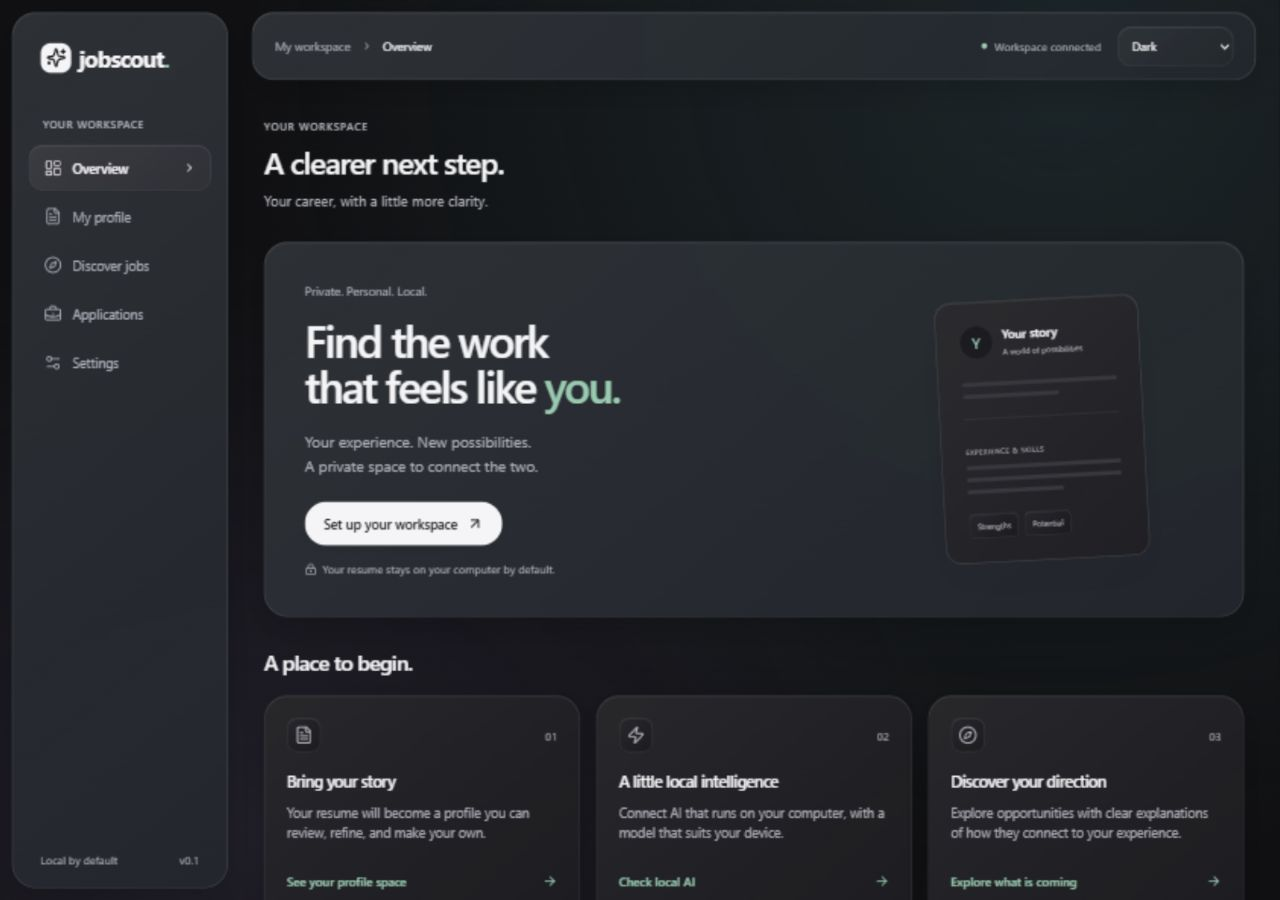
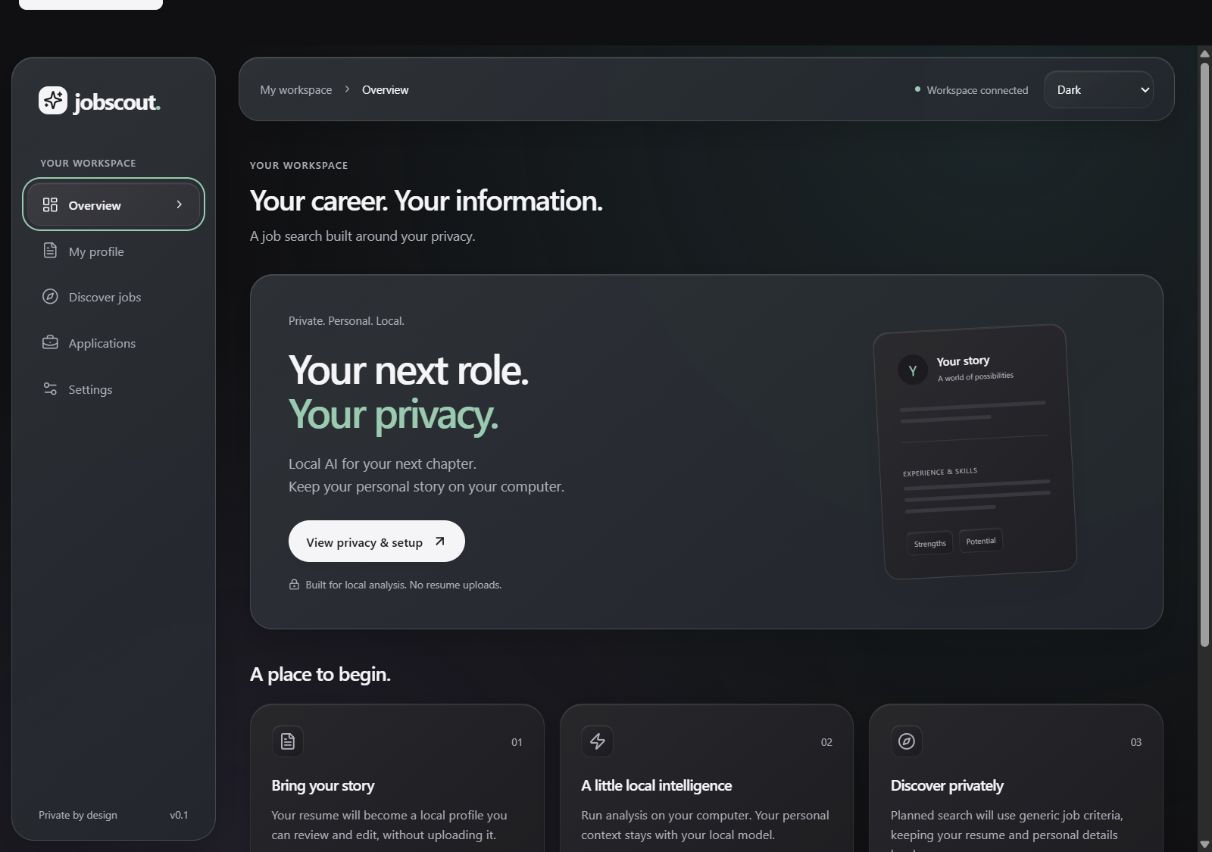
feat: make privacy central and record project handoff

diff --git a/apps/desktop/src/App.tsx b/apps/desktop/src/App.tsx
@@ -35,23 +35,38 @@ function JourneyIllustration() {
 
 function Overview({ engine, navigate }: { engine: Engine; navigate: (page: Page) => void }) {
   return <>
-    <div className="page-heading"><div><p className="eyebrow">YOUR WORKSPACE</p><h1>A clearer next step.</h1><p className="muted">Your career, with a little more clarity.</p></div></div>
+    <div className="page-heading"><div><p className="eyebrow">YOUR WORKSPACE</p><h1>Your career. Your information.</h1><p className="muted">A job search built around your privacy.</p></div></div>
     <section className="hero" aria-labelledby="hero-title">
       <div className="hero-copy"><span className="small-tag">Private. Personal. Local.</span>
-        <h2 id="hero-title">Find the work<br />that feels like <em>you.</em></h2>
-        <p>Your experience. New possibilities.<br />A private space to connect the two.</p>
-        <button className="button primary" onClick={() => navigate('settings')}>Set up your workspace <ArrowUpRight size={17} /></button>
-        <div className="hero-footnote"><LockKeyhole size={12} /> Your resume stays on your computer by default.</div>
+        <h2 id="hero-title">Your next role.<br /><em>Your privacy.</em></h2>
+        <p>Local AI for your next chapter.<br />Keep your personal story on your computer.</p>
+        <button className="button primary" onClick={() => navigate('settings')}>View privacy & setup <ArrowUpRight size={17} /></button>
+        <div className="hero-footnote"><LockKeyhole size={12} /> Built for local analysis. No resume uploads.</div>
       </div><JourneyIllustration />
     </section>
     <div className="section-heading"><h2>A place to begin.</h2></div>
     <div className="start-grid">
-      <article className="start-card"><div className="card-top"><span className="icon-tile lavender"><FileText size={19} /></span><span className="card-number">01</span></div><h3>Bring your story</h3><p>Your resume will become a profile you can review, refine, and make your own.</p><button className="text-action" onClick={() => navigate('profile')}>See your profile space <ArrowRight size={15} /></button><span className="feature-note">Resume import is our next milestone</span></article>
-      <article className="start-card"><div className="card-top"><span className="icon-tile green"><Zap size={19} /></span><span className="card-number">02</span></div><h3>A little local intelligence</h3><p>Connect AI that runs on your computer, with a model that suits your device.</p><button className="text-action" onClick={() => navigate('settings')}>Check local AI <ArrowRight size={15} /></button><span className="feature-note">{engine.health?.local_ai.status === 'available' ? 'Ollama is available on your computer' : 'Model setup comes next'}</span></article>
-      <article className="start-card"><div className="card-top"><span className="icon-tile peach"><Compass size={19} /></span><span className="card-number">03</span></div><h3>Discover your direction</h3><p>Explore opportunities with clear explanations of how they connect to your experience.</p><button className="text-action" onClick={() => navigate('discover')}>Explore what is coming <ArrowRight size={15} /></button><span className="feature-note">Job discovery is on the roadmap</span></article>
+      <article className="start-card"><div className="card-top"><span className="icon-tile lavender"><FileText size={19} /></span><span className="card-number">01</span></div><h3>Bring your story</h3><p>Your resume will become a local profile you can review and edit, without uploading it.</p><button className="text-action" onClick={() => navigate('profile')}>See your profile space <ArrowRight size={15} /></button><span className="feature-note">Resume import is our next milestone</span></article>
+      <article className="start-card"><div className="card-top"><span className="icon-tile green"><Zap size={19} /></span><span className="card-number">02</span></div><h3>A little local intelligence</h3><p>Run analysis on your computer. Your personal context stays with your local model.</p><button className="text-action" onClick={() => navigate('settings')}>Check local AI <ArrowRight size={15} /></button><span className="feature-note">{engine.health?.local_ai.status === 'available' ? 'Ollama is available on your computer' : 'Model setup comes next'}</span></article>
+      <article className="start-card"><div className="card-top"><span className="icon-tile peach"><Compass size={19} /></span><span className="card-number">03</span></div><h3>Discover privately</h3><p>Planned search will use generic job criteria, keeping your resume and personal details local.</p><button className="text-action" onClick={() => navigate('discover')}>Explore what is coming <ArrowRight size={15} /></button><span className="feature-note">Job discovery is on the roadmap</span></article>
     </div>
-    <div className="privacy-strip"><span className="privacy-icon"><ShieldCheck size={20} /></span><div><strong>Your career. Your information.</strong><p>Local processing first. Clear choices whenever a feature needs the internet.</p></div><span className="local-label">LOCAL BY DEFAULT</span></div>
+    <div className="privacy-strip"><span className="privacy-icon"><ShieldCheck size={20} /></span><div><strong>Your story stays with you.</strong><p>Local processing. No product tracking. Clear disclosure before online discovery.</p></div><span className="local-label">LOCAL BY DEFAULT</span></div>
   </>;
+}
+
+function PrivacyPanel() {
+  return <section className="settings-panel" aria-labelledby="privacy-title">
+    <div className="settings-title">
+      <span className="icon-tile green"><ShieldCheck size={20} /></span>
+      <div><h2 id="privacy-title">Your privacy comes first.</h2><p>Our commitment: personal career data stays on this computer.</p></div>
+    </div>
+    <dl className="privacy-details">
+      <div><dt>Local intelligence</dt><dd>Resume parsing, profiles, embeddings, and matching are planned to run locally. No hosted AI fallback.</dd></div>
+      <div><dt>Private discovery</dt><dd>Future searches will send only reviewed, generic job criteria. Your resume and personal details will stay local.</dd></div>
+      <div><dt>Clear boundaries</dt><dd>Online job search is not available in this release. Opening an external website connects your browser to that site.</dd></div>
+    </dl>
+    <p className="privacy-note">Online providers can see your search criteria, connection details such as your IP address, and provider-account information. Keeping personal content local does not make an internet connection anonymous.</p>
+  </section>;
 }
 
 function Settings({ engine }: { engine: Engine }) {
@@ -59,6 +74,7 @@ function Settings({ engine }: { engine: Engine }) {
   const ai = engine.health?.local_ai;
   return <>
     <div className="page-heading"><div><p className="eyebrow">MAKE IT YOURS</p><h1>Your workspace, at a glance.</h1><p className="muted">See what is ready and what needs a little attention.</p></div></div>
+    <PrivacyPanel />
     <section className="settings-panel" aria-labelledby="connection-title"><div className="settings-title"><span className="icon-tile green"><Monitor size={20} /></span><div><h2 id="connection-title">Local workspace</h2><p>The foundation for keeping your information on this computer.</p></div><EngineBadge engine={engine} /></div>
       <div className="status-row"><div><h3>Application engine</h3><p>{engine.health ? 'Connected and responding.' : engine.checking ? 'Checking the connection…' : 'Connection unavailable.'}</p></div><button className="button secondary" disabled={engine.checking} onClick={() => void engine.refresh()}><RefreshCw size={14} className={engine.checking ? 'spinning' : ''} />{engine.checking ? 'Checking…' : 'Check again'}</button></div>
       <div className="status-row"><div><h3>Local storage</h3><p>{engine.health?.database === 'ready' ? 'Your local database is ready.' : engine.health?.database === 'error' ? 'Storage needs attention before saving information.' : 'Storage status will appear when the workspace connects.'}</p></div><span className={`status-text ${engine.health?.database === 'ready' ? 'positive' : ''}`}>{engine.health?.database === 'ready' ? 'Ready' : 'Not verified'}</span></div>
@@ -73,7 +89,7 @@ function Settings({ engine }: { engine: Engine }) {
 
 const upcoming = {
   profile: { eyebrow: 'YOUR STORY, IN ONE PLACE', title: 'A profile that grows with you.', icon: FileText, heading: 'Start with the experience you already have.', description: 'Our next milestone brings PDF and Word resume import, local text extraction, and a profile you can review before anything is saved.', steps: ['Import a PDF or Word resume', 'Review extracted skills and experience', 'Keep a profile locally, under your control'] },
-  discover: { eyebrow: 'OPPORTUNITY, WITH CONTEXT', title: 'Find a direction worth exploring.', icon: Compass, heading: 'A thoughtful search begins with your story.', description: 'Job discovery will combine your preferences with online search, then explain matches using evidence from your resume and each job description.', steps: ['Choose roles, locations, and work preferences', 'Find and save opportunities through search providers', 'Understand matches and gaps with source evidence'] },
+  discover: { eyebrow: 'PRIVACY AT EVERY STEP', title: 'Discover jobs. Keep your story private.', icon: Compass, heading: 'Opportunities without uploading your resume.', description: 'Planned discovery will send only reviewed, generic job criteria. Your resume, profile, and matching will stay local. Providers can still see connection details and the account behind an API key; complete internet anonymity is not provided.', steps: ['Choose generic roles, skills, and an optional search region', 'Review exactly which criteria go to the search provider', 'Match results against your resume on your computer'] },
   applications: { eyebrow: 'ONE STEP AT A TIME', title: 'Keep your next chapter in view.', icon: BriefcaseBusiness, heading: 'A calmer way to follow your progress.', description: 'The application tracker will keep your saved roles, notes, and next steps together. Your history will stay intact when search results change.', steps: ['Save roles that catch your attention', 'Track applications and interview stages', 'Keep notes and next steps close at hand'] },
 };
 
@@ -88,7 +104,7 @@ export function App() {
   const engine = useEngine();
   const { appearance, changeAppearance } = useAppearance();
   return <div className="app-shell"><a className="skip-link" href="#main-content">Skip to main content</a>
-    <aside className="sidebar"><a href="#" className="brand" onClick={event => { event.preventDefault(); setPage('overview'); }} aria-label="JobScout overview"><span className="brand-mark"><Sparkles size={21} /></span>jobscout<span className="brand-period">.</span></a><div className="sidebar-label">YOUR WORKSPACE</div><nav aria-label="Main navigation">{navigation.map(({ id, label, icon: Icon }) => <button key={id} aria-label={label} title={label} className={`nav-item ${page === id ? 'active' : ''}`} aria-current={page === id ? 'page' : undefined} onClick={() => setPage(id)}><Icon size={18} strokeWidth={1.7} /><span>{label}</span>{page === id && <ChevronRight size={14} />}</button>)}</nav><div className="sidebar-bottom"><div className="sidebar-footer"><span className="mini-brand">Local by default</span><span>v0.1</span></div></div></aside>
+    <aside className="sidebar"><a href="#" className="brand" onClick={event => { event.preventDefault(); setPage('overview'); }} aria-label="JobScout overview"><span className="brand-mark"><Sparkles size={21} /></span>jobscout<span className="brand-period">.</span></a><div className="sidebar-label">YOUR WORKSPACE</div><nav aria-label="Main navigation">{navigation.map(({ id, label, icon: Icon }) => <button key={id} aria-label={label} title={label} className={`nav-item ${page === id ? 'active' : ''}`} aria-current={page === id ? 'page' : undefined} onClick={() => setPage(id)}><Icon size={18} strokeWidth={1.7} /><span>{label}</span>{page === id && <ChevronRight size={14} />}</button>)}</nav><div className="sidebar-bottom"><div className="sidebar-footer"><span className="mini-brand">Private by design</span><span>v0.1</span></div></div></aside>
     <div className="workspace"><header className="topbar"><div className="breadcrumb">My workspace <ChevronRight size={12} /><span>{navigation.find(item => item.id === page)?.label}</span></div><div className="topbar-actions"><EngineBadge engine={engine} /><label className="appearance-control"><span className="sr-only">Appearance</span><select value={appearance} onChange={event => changeAppearance(event.target.value as Appearance)}><option value="system">Follow system</option><option value="light">Light</option><option value="dark">Dark</option></select></label></div></header><main id="main-content" className="main-content" key={page} tabIndex={-1}>{page === 'overview' ? <Overview engine={engine} navigate={setPage} /> : page === 'settings' ? <Settings engine={engine} /> : <Upcoming page={page} navigate={setPage} />}</main><footer className="workspace-footer"><span>Made for the next step.</span><span><LockKeyhole size={12} /> Personal by design</span></footer></div>
   </div>;
 }

diff --git a/apps/desktop/src/styles.css b/apps/desktop/src/styles.css
@@ -159,6 +159,11 @@ svg { flex-shrink: 0; }
 .planned-list { list-style: none; padding: 0; text-align: left; max-width: 430px; margin: 0 auto 28px; }
 .planned-list li { font-size: 13px; color: var(--muted); display: flex; gap: 10px; align-items: center; padding: 13px 0; border-bottom: 1px solid var(--line); }
 .spinning { animation: spin 1s linear infinite; }
+.privacy-details { margin: 0; display: grid; grid-template-columns: repeat(3, minmax(0, 1fr)); gap: 22px; padding: 22px 0; border-top: 1px solid var(--line); }
+.privacy-details dt { font-size: 14px; font-weight: 600; margin-bottom: 8px; }
+.privacy-details dd { margin: 0; font-size: 13px; line-height: 1.65; color: var(--muted); }
+.privacy-note { font-size: 12px; line-height: 1.65; color: var(--muted); border-top: 1px solid var(--line); padding-top: 18px; }
+@media (max-width: 1100px) { .privacy-details { grid-template-columns: 1fr; gap: 18px; } }
 @keyframes spin { to { transform: rotate(360deg); } }
 @media (max-width: 1100px) {
   .sidebar { width: 190px; }

diff --git a/docs/privacy.md b/docs/privacy.md
@@ -1,0 +1,51 @@
+# Privacy is the product
+
+Status: product contract and implementation requirements. The current foundation has no resume ingestion or online job search. Future controls below must be implemented and verified before enabling those features.
+
+## Promise
+
+Help people find jobs without uploading their personal career information. Resume parsing, profile creation, embeddings, retrieval, matching, and explanations run locally. There is no hosted AI fallback. Privacy must remain useful and understandable for someone installing the application for the first time.
+
+Use the product message: **Find your next role. Keep your personal story private.**
+
+## What stays on the computer
+
+- Resume files and their filenames, extracted text, OCR output, and document metadata.
+- Names, contact details, addresses, personal links, employment and education history, and private notes.
+- Profiles, embeddings, vector indexes, prompts containing personal data, and generated assessments.
+- Saved jobs, application status, interview notes, and search history associated with the user.
+
+No telemetry, tracking pixels, remote fonts, automatic crash uploads, or background sync. Do not fetch images, links, scripts, or other embedded resources from imported documents or job descriptions. Store personal information outside the repository and exclude it from logs and diagnostic exports. Local storage is not automatically encrypted or protected from other software running as the same user; do not claim that it is.
+
+## What optional online features may send
+
+| Action | Permitted outbound content | User guidance |
+|---|---|---|
+| Job search (planned) | Reviewed generic role, broad search region, seniority, work arrangement, and selected public skill categories; required provider authentication | Preview the actual query and provider. Omit region if the user prefers. A search region is a job preference, not an inferred home address. |
+| Provider connection check (planned) | Provider credential and a fixed non-personal request | Explain possible quota use before the check. |
+| Model/runtime download (planned) | Model identifier and required download request | Show source, license, size, and network requirement; never attach profile data. |
+| Open a provider or job website | Normal browser navigation | Clearly indicate that this opens an external site with its own data practices. Never append personal data to URLs. |
+
+Credentials go only to their intended provider, over HTTPS, and belong in an OS-backed secret store. JobScout requires no central account. Provider accounts may be necessary for search APIs.
+
+## Search without disclosing the user's identity
+
+The desired experience is searching for opportunities without attaching a personal identity or resume. This is a restriction on query content, not a guarantee of full internet anonymity. Providers can observe search terms, IP/network metadata, request timing, and API-account association. Even generic combinations can reveal interests. Search queries must not be described as inherently anonymous.
+
+IP masking, unlinkable credentials, provider retention guarantees, and anonymous application submission are not implemented or promised. Any future proxy or anonymity feature needs a separate threat model and verification. Applying to a job ordinarily involves sharing details with that employer; JobScout must make that external step explicit.
+
+## Required architecture before online search ships
+
+1. Keep personal processing in the local engine. Search adapters must receive a small typed `PublicSearchCriteria` object, with no access to resume files, profile storage, or model conversation context.
+2. Construct criteria from controlled role/skill categories and explicit user choices. Do not concatenate resume text, employer names, personal links, filenames, or model-generated text into queries. Do not assume removing a name anonymizes a document.
+3. Show the actual outbound query before the first search and whenever criteria change. A user's confirmation must not override the prohibition on sending personal career data.
+4. Validate and serialize at one outbound boundary. Reject unknown fields, arbitrary free text, identifiers, unsafe URLs, and unexpected redirects. Treat detection/redaction as an additional check, not the primary protection.
+5. Allow only configured provider endpoints and the minimum required headers. Return readable errors and keep analysis available when search is skipped, cancelled, or unavailable.
+6. Treat job content as untrusted data. It cannot instruct the app to disclose local files, alter network permissions, or call tools. Render text safely and do not automatically load trackers or embedded remote resources.
+7. Keep operational logs free of personal content and credentials. A local activity view can show provider, time, and action; detailed query history requires deliberate local retention controls.
+
+## Release evidence
+
+Before advertising private online discovery, inspect captured outgoing requests using synthetic profiles with distinctive identifying markers. Verify that those markers, resume contents, embeddings, and extra fields never reach providers. Exercise malformed criteria, provider errors, redirects, malicious job text, cancellation, and offline behavior. Check that installed model inference uses only the local runtime and that no unexpected outbound requests occur while working locally.
+
+Also verify deletion of all app-owned copies, derived text, indexes, caches, and records. Respect shared models and explain what uninstall retains. Do not claim secure disk erasure. See the installation design for the setup experience.

diff --git a/docs/roadmap.md b/docs/roadmap.md
@@ -1,0 +1,47 @@
+# Rough roadmap — next 30 working sessions
+
+Baseline: 2026-09-29. Each row is a small meaningful delivery, roughly one working session. These are estimates, not calendar deadlines; difficult milestones can span several days. Reorder when evidence warrants it, and preserve a working app throughout. No automation or daily reminder is implied.
+
+The aim is a usable personal alpha: import a resume, review a local profile, find opportunities without sending personal career data, and explain matches using local RAG. Optional online search must remain off until its privacy boundary is verified.
+
+| Session | Increment | Useful completion evidence |
+|---|---|---|
+| 1 | Windows development prerequisites and first native launch | Tauri window starts/stops its bundled engine; record concrete packaging failures if blocked. |
+| 2 | Resume import contract and accessible file picker | PDF/DOCX selection, file size/type rules, cancel and readable errors; synthetic files only. |
+| 3 | Local PDF text extraction | Text-based PDF is extracted without network access; scanned input gets honest guidance. |
+| 4 | Local DOCX extraction | Paragraphs/tables produce usable text; embedded external content is not fetched. |
+| 5 | Background import task lifecycle | Progress, cancellation, timeout, and retry keep navigation responsive. |
+| 6 | Extracted-text review | User can inspect/edit the text and decide whether to keep it. |
+| 7 | Profile persistence and deletion | Reviewed data survives restart; discard/delete removes app-owned imported copies. |
+| 8 | Local runtime setup | Detect/reuse Ollama and explain setup later and failure recovery. |
+| 9 | Reviewed model catalog | Exact model licenses, sources, size, and measured hardware guidance. |
+| 10 | Explicit model acquisition | User starts/cancels download; real progress and interrupted-download recovery. |
+| 11 | Local inference adapter | Bounded local generation with cancellation; no hosted fallback. |
+| 12 | Structured profile suggestions | Extract skills/experience locally with source references and editable review. |
+| 13 | Local embeddings adapter | Embed synthetic resume/job text locally; record model/version. |
+| 14 | Local retrieval store | Save/retrieve chunks with document/page references and index versioning. |
+| 15 | Manual job-description import | Useful fully local matching input with untrusted-content handling. |
+| 16 | First evidence-based match | Retrieve supporting snippets; show fit, gaps, and uncertainty without invented qualifications. |
+| 17 | RAG quality review | Synthetic examples expose unsupported claims and poor retrieval; fix the largest issue. |
+| 18 | Public search-criteria contract | Controlled role/region/skill choices; no resume context reaches the search adapter. |
+| 19 | Outbound privacy boundary | Reject extra fields, identifiers, unsafe URLs, and unconstrained generated queries. |
+| 20 | Search preview and disclosure | Show exact outbound criteria/provider and explain IP/account metadata before sending. |
+| 21 | Provider secret storage | OS-backed keys, masked inputs, remove/replace behavior, no secret logging. |
+| 22 | First search adapter (Tavily candidate) | Explicit search with bounded requests, cancellation, quota errors, and offline handling. |
+| 23 | Search privacy verification gate | Captured requests contain no synthetic personal markers; malformed inputs and redirects fail safely. |
+| 24 | Results and local saving | Normalize/deduplicate jobs, retain source/time, and avoid loading remote trackers. |
+| 25 | Local matching of search results | RAG explanations cite job/resume evidence; inference remains local. |
+| 26 | Simple application tracker | Saved/applied/interview stages and private local notes. |
+| 27 | Privacy and data controls | Review outbound actions; verify deletion of documents, derived data, indexes, and caches. |
+| 28 | Guided setup integration | Model/search skip paths, storage guidance, external-site disclosures, and restart recovery. |
+| 29 | Native installer and UX hardening | Clean Windows install/upgrade/uninstall review, keyboard access, both themes, and measured slow-device behavior. |
+| 30 | Personal alpha documentation and demo | A fresh user can install/run it; synthetic demo shows the full workflow and known limitations. |
+
+## Scope controls
+
+- A complete import/review workflow is the first user-facing milestone. Resolve native packaging early alongside it.
+- OCR, multiple providers, job-board integrations, automatic applications, syncing, mobile apps, and network anonymity services are outside this estimate.
+- A provider can be replaced if its terms, cost, quality, or privacy behavior do not suit the contract. Do not describe any plan as permanently free.
+- Every data-bearing milestone includes failure handling, privacy checks, and deletion semantics. UI work includes glass/opaque rendering, responsive layout, visible focus, and reduced motion.
+- Prefer deterministic filters and evidence over opaque fit scores. Do not imply hiring success or fabricate experience.
+- Review progress after sessions 7, 17, and 23. If time slips, reduce scope; keep the privacy gate and installation checks.

diff --git a/MEMORY.md b/MEMORY.md
@@ -1,0 +1,39 @@
+# JobScout — resume here
+
+Last checkpoint: 2026-09-29. This is project memory for contributors and future assistant sessions, not a store for user information.
+
+## Direction
+
+Build an open-source Windows job finder that keeps personal career information local. Think big, act small: one useful, reviewable improvement per session. The UI matters from the first increment: minimal Apple-inspired glass, responsive layouts, Light/Dark/System appearance, keyboard access, and smooth background work.
+
+The governing promise is in [docs/privacy.md](docs/privacy.md). Resumes, profiles, embeddings, and AI analysis never go to online providers. Generic, reviewed job criteria may be sent when online discovery is implemented. Do not promise network anonymity: IP metadata and provider-account association remain visible.
+
+## Current state
+
+- Public repository: https://github.com/nikhil-m-v/jobscout-local, branch `main`.
+- Published foundation: `5e438cf`; published responsive glass UI: `4370c00`.
+- React/TypeScript/Vite UI; Tauri 2 Windows shell configured; Python/FastAPI engine; SQLite startup; replaceable Ollama health adapter.
+- Browser preview starts the real local engine, uses session authentication, and shows actual engine/storage/runtime status.
+- Overview, Settings, and labeled planned-feature pages exist. Appearance is saved locally. Glass has opaque and accessibility fallbacks.
+- No resume ingestion, model inference, embeddings, RAG, Tavily search, key storage, or application tracking is implemented yet. The privacy boundary for future search is a documented contract, not an implemented filter.
+- Today's final increment adds privacy messaging, the privacy contract, this checkpoint, and the roadmap. Use `git log -1` to identify its commit after publication.
+
+## Evidence and limitations
+
+Frontend type checking/production bundling passed during today's UI work. The foundation engine check passed earlier today. Browser views were inspected in light/dark and compact sizes; no horizontal overflow was observed in the 320-pixel glass preview. These do not establish native Windows performance.
+
+The final privacy copy/layout build also passed. The privacy panel was reached by keyboard and inspected at desktop and 390-pixel widths without horizontal overflow. Current screenshots are linked from the README; `docs/images/privacy-settings.png` shows the disclosure panel.
+
+The development machine lacks Rust/Cargo and Microsoft C++ Build Tools; WebView2 is available. Native compilation, bundled Python sidecar behavior, installer behavior, model inference, and GPU performance are unverified. Ollama was unavailable in the observed preview; the workspace handled that state.
+
+Git metadata writes require the environment's scoped approval path. Approved Git commands successfully fetched existing history, committed, and pushed without force. Do not change Windows ACLs to bypass the sandbox. The GitHub connector can independently verify published files. Fetch and inspect status before changing history; never overwrite unrelated work.
+
+## Start the next session
+
+1. Read `AGENTS.md`, this file, the privacy contract, and [the roadmap](docs/roadmap.md). Check local status and remote history.
+2. Pick the next small milestone: **PDF/DOCX import and a local extracted-text review**, starting with the import contract and file picker. Keep search and model generation out of that first slice.
+3. In parallel planning, resolve the Windows toolchain and attempt the first native build early; do not leave packaging risks until release week.
+4. Use the repository `.venv` if present. `npm run dev` launches the local browser preview. Follow `README.md` to recreate dependencies; do not assume yesterday's preview process is still running.
+5. End with the relevant checks, a clean reviewable commit, confirmed publication when authorized, and an updated checkpoint/progress entry. Do not mark planned features complete based on placeholder screens.
+
+Detailed record: [2026-09-29](docs/progress/2026-09-29.md). Approximate next 30 working sessions: [roadmap](docs/roadmap.md). No recurring automation has been scheduled.

diff --git a/docs/progress/2026-09-29.md b/docs/progress/2026-09-29.md
@@ -1,0 +1,34 @@
+# Progress — 2026-09-29
+
+## Decisions
+
+- Windows desktop is the target. The browser is a development preview of the same React interface.
+- Adopt a modular local application: Tauri shell, FastAPI engine, SQLite, and small provider interfaces. Delay distributed infrastructure until there is a concrete need.
+- Make privacy the distinguishing feature. Personal career data and inference stay local; future online requests use generic, user-reviewed search criteria. Avoid absolute anonymity claims.
+- Keep the interface minimal, responsive, and visually polished, with shared glass materials and Light/Dark/System appearance.
+
+## Completed today
+
+- Preserved the initial GitHub design history: `899431f`, `b40851f`, and `ec2a542`.
+- Implemented and published the foundation and appearance modes in `5e438cf`.
+- Implemented and published the responsive glass interface in `4370c00`; independently read the remote files through the GitHub connector.
+- Added local authenticated health transport, SQLite initialization, bounded Ollama availability checks, preview process ownership, Windows shell configuration, sidecar packaging scripts, setup instructions, contribution guidance, and MIT licensing.
+- Added privacy-focused Overview and planned-discovery text, a clear privacy explanation in Settings, `docs/privacy.md`, updated installation guidance, `MEMORY.md`, and a rough 30-session roadmap in this final daily increment.
+
+## Checks and practical limits
+
+- Frontend build/type checking passed for the implemented interface; the foundation engine check passed earlier in the day.
+- Visually inspected light/dark desktop and compact layouts, settings navigation, real engine/storage status, and the unavailable-model state. The 320-pixel glass view did not show horizontal overflow.
+- Native Windows build and installer remain unverified because the Rust/MSVC toolchain is missing. No model generation or real job discovery has been demonstrated.
+- UI privacy copy distinguishes the implemented foundation from planned behavior. No search firewall, query preview, resume parser, encryption, or anonymity service is being claimed as implemented.
+- Final privacy increment: `npm run build` passed. The Overview action reached the new privacy panel by keyboard; the panel was inspected at desktop and 390-pixel widths, with no horizontal overflow at the compact width. Refreshed light/dark Overview screenshots and saved `docs/images/privacy-settings.png`. No new backend tests were needed for this documentation/copy/layout change.
+
+## Resume next time
+
+Start with one import slice: select a PDF or DOCX locally, validate its type/size, extract text without fetching remote resources, and show an editable review with cancellation/error states. Persist only after review. Scanned PDFs should get a clear unsupported/OCR-later message until local OCR is implemented.
+
+Before implementation, define the file and task contracts and a synthetic fixture. Also prioritize installing the native development prerequisites and checking the Tauri sidecar path. Follow [the roadmap](../roadmap.md), keeping milestones flexible when evidence changes the estimate.
+
+## Publishing discipline
+
+Use regular commits on the existing history and confirm the remote branch after pushing. Earlier confusion came from a configured Git remote with uncommitted local work; a configured remote is not proof of publication. Record any future blocker explicitly and never report a push without confirmation.

diff --git a/docs/design/installation.md b/docs/design/installation.md
@@ -57,9 +57,9 @@ Allow reuse of installed models and setup later. Show total disk requirements be
 
 Only show credential fields for enabled providers. Local models do not need a hosted-model API key. Start with Tavily for online job discovery; future providers use the same reusable setup panel.
 
-Example helper text: "Tavily helps JobScout find jobs online. Create or sign in to your account, find API keys in your dashboard, and paste a key here. You can add this later in Settings. Search requests may use your provider credits."
+Example helper text: "Tavily helps JobScout find jobs online using generic criteria you review. Your resume and personal details stay on this computer. Create or sign in to your account, find API keys in your dashboard, and paste a key here. You can add this later in Settings. Search requests may use your provider credits."
 
-Link to the official [Tavily dashboard](https://app.tavily.com) and [API-key guide](https://help.tavily.com/articles/9170796666-how-can-i-create-an-api-key). Explain which information leaves the PC: search terms such as role, skills, and location; the resume file should stay local by default. Show the provider's current usage guidance rather than promising a permanent free allowance.
+Link to the official [Tavily dashboard](https://app.tavily.com) and [API-key guide](https://help.tavily.com/articles/9170796666-how-can-i-create-an-api-key). Explain which information leaves the PC: only reviewed, generic role/skill categories and an optional broad search region; resume files and all personal career data must stay local. Explain that the provider still sees connection metadata and API-account association, so this is not a guarantee of network anonymity. Follow [the privacy contract](../privacy.md). Show the provider's current usage guidance rather than promising a permanent free allowance.
 
 Keep keys masked; support paste and explicit Show/Hide. Save them in Windows Credential Manager or an equivalent OS-backed secret store, with only a secret reference in ordinary settings. A user-triggered connection check uses a minimal request, never resume data, and explains whether it may consume credits. Distinguish invalid key, exhausted quota, offline connection, and provider failure. Do not display or log the key in errors or diagnostics.
 
@@ -101,3 +101,7 @@ On upgrades, preserve user data and secrets, migrate settings with a recovery pa
 6. Add the Ready screen and handoff to resume import.
 
 For each step, review keyboard use, visual consistency, honest status messages, and responsiveness during slow work. Set measured UI performance targets once the first runnable wizard exists; distinguish interface responsiveness from model inference speed.
+
+## Privacy during first run
+
+Lead with the local-data promise. Explain offline resume analysis and manual job-description import, then offer online discovery as an optional separate step. Show the exact outbound criteria before the first search and after changes. Do not generate provider queries from resume text. Provider connection checks use fixed non-personal requests. Runtime/model downloads and external provider links still create internet connections; explain that these services can observe connection metadata. Do not present a setup checkmark as proof of anonymity. Resume import and matching must remain usable with online discovery skipped once those local features are implemented.

diff --git a/README.md b/README.md
@@ -1,6 +1,8 @@
 # JobScout Local
 
-A personal Windows workspace for a more thoughtful job search. Built with Tauri 2, React, TypeScript, and a Python/FastAPI local engine.
+Find your next role. Keep your personal story private.
+
+JobScout is an open-source Windows application designed to keep resumes, AI analysis, and career records on your computer. Its defining promise is local intelligence without uploading your personal career data. Built with Tauri 2, React, TypeScript, and a Python/FastAPI local engine.
 
 **Status: foundation release.** The interface, navigation, engine connection, SQLite initialization, and Ollama availability check are implemented. Resume import, model downloads, RAG matching, online job search, and application tracking are planned. The UI identifies those features clearly.
 
@@ -84,10 +86,16 @@ Review Overview and Settings with the engine connected, disconnected, and withou
 
 ## Privacy and local connections
 
+Our product contract is that resume files, extracted text, profiles, embeddings, match explanations, and application notes stay local. No hosted AI fallback, product analytics, advertising trackers, or automatic uploads of diagnostics are part of the design.
+
+Planned online discovery will send only user-reviewed, generic job criteria through a restricted search adapter. It will not send your resume or identity. Online search is **not implemented yet**. A search provider can still see queries, connection metadata such as an IP address, and the account associated with an API key; JobScout does not currently provide network anonymity. Opening a job website or applying there creates a separate interaction with that site.
+
+See [the privacy contract](docs/privacy.md) for the exact boundary, implementation requirements, and release checks. Privacy statements must describe verified behavior, not imply that planned safeguards already exist.
+
 The engine binds only to `127.0.0.1`, requires a fresh app-session token on every API request, and does not enable cross-origin access. The browser preview uses Vite's server-side proxy for its single health route; the token is not embedded in frontend assets. Tauri requests health through a narrowly scoped Rust command. No resume or search credentials are collected in this release.
 
 ## Next milestone
 
-PDF/DOCX import, local text extraction, and a reviewable profile. See [the architecture decision](docs/architecture/0001-foundation.md), [project instructions](AGENTS.md), and [contribution guidance](CONTRIBUTING.md).
+PDF/DOCX import, local text extraction, and a reviewable profile. Start with [the current memory checkpoint](MEMORY.md), [today's progress](docs/progress/2026-09-29.md), and [the roughly 30-session roadmap](docs/roadmap.md). Also see [the architecture decision](docs/architecture/0001-foundation.md), [project instructions](AGENTS.md), and [contribution guidance](CONTRIBUTING.md).
 
 Licensed under MIT. Model weights, provider services, and third-party dependencies retain their own licenses and terms.

diff --git a/AGENTS.md b/AGENTS.md
@@ -1,7 +1,12 @@
 # Project Instructions: Think Big, Act Small
 
 ## North star
-Build an open-source, local-first Windows AI job-finder that helps people understand their fit for real opportunities and take the next step. Keep the architecture modular so people can fork it, configure it with minimal effort, and replace components without rewriting the product.
+Build an open-source Windows AI job-finder whose defining benefit is personal privacy: resume analysis, embeddings, matching, and career records stay on the user's computer. Online discovery must use generic job criteria without sending the user's identity or personal career data. Keep the architecture modular so people can fork it, configure it with minimal effort, and replace components without rewriting the product.
+
+## Session continuity
+- At the start of work, read `MEMORY.md`, `docs/privacy.md`, and the current milestone in `docs/roadmap.md`.
+- Finish each meaningful session by updating the memory checkpoint and a dated progress note. Record completed work, evidence, blockers, and the next concrete action.
+- Keep committed memory project-specific. Never include real resumes, credentials, personal contact details, local machine paths, or private debugging logs.
 
 ## How we work
 - Think big about the product, but make small, meaningful, reviewable changes.
@@ -21,7 +26,9 @@ Build an open-source, local-first Windows AI job-finder that helps people unders
 - Use the glass material rules in `docs/design/glass.md` for new UI. Keep effects restrained, make every screen adapt to window size, and provide readable opaque fallbacks.
 
 ## Product and technical direction
-- Default to local processing and local storage for resumes and profile data. Clearly disclose any data sent to external search providers such as Tavily.
+- Treat `docs/privacy.md` as the privacy contract. Never send resume files, extracted text, profile details, embeddings, match explanations, or application notes to online providers. Do not add a hosted-model fallback.
+- Build outbound search requests from user-reviewed, generic criteria through a restrictive search boundary. Never derive provider queries directly from resume text or unconstrained model output.
+- Clearly disclose provider-visible queries, network metadata, and API-account association. Do not promise complete anonymity or zero outbound data for online search.
 - Keep model, search, parsing, vector storage, and persistence behind small replaceable interfaces.
 - Treat extracted resume details and generated match assessments as suggestions. Let users review profile data and show evidence for match explanations.
 - Keep provider credentials out of source control and logs. Provide setup guidance and safe example configuration for forks.

diff --git a/docs/architecture/0001-foundation.md b/docs/architecture/0001-foundation.md
@@ -32,6 +32,8 @@ The model adapter has a bounded timeout and ignores environment HTTP proxies for
 
 ## Module boundaries
 
+The governing data boundary is [the privacy contract](../privacy.md). Personal analysis and retrieval stay inside the local engine. When search is implemented, its adapter will accept only typed generic criteria from an outbound validation boundary, with no access to personal profile or resume storage. No such search boundary exists in the foundation yet; online search remains unavailable until it is implemented and verified.
+
 - `domain/` owns provider-independent contracts.
 - `adapters/` implements integrations.
 - `storage.py` owns persistence; route handlers do not build SQL.
